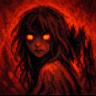
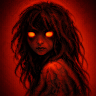
Add files via upload
Updated some art and description

diff --git a/js/core/3-data-vasen.js b/js/core/3-data-vasen.js
@@ -439,7 +439,7 @@ const VASEN_SPECIES = {
     'Jarnvidja': {
         name: 'Järnvidja',
         internalName: 'Jarnvidja',
-        description: 'A fearsome giantess of the Iron Wood, the primordial forest where monsters dwell.',
+        description: 'A fearsome giantess of the primordial Iron Forest. She breeds the wolves of chaos and guards the gnarled, ancient thickets with unnatural strength.',
         family: FAMILIES.JATTE,
         element: ELEMENTS.NATURE,
         rarity: RARITIES.UNCOMMON,
